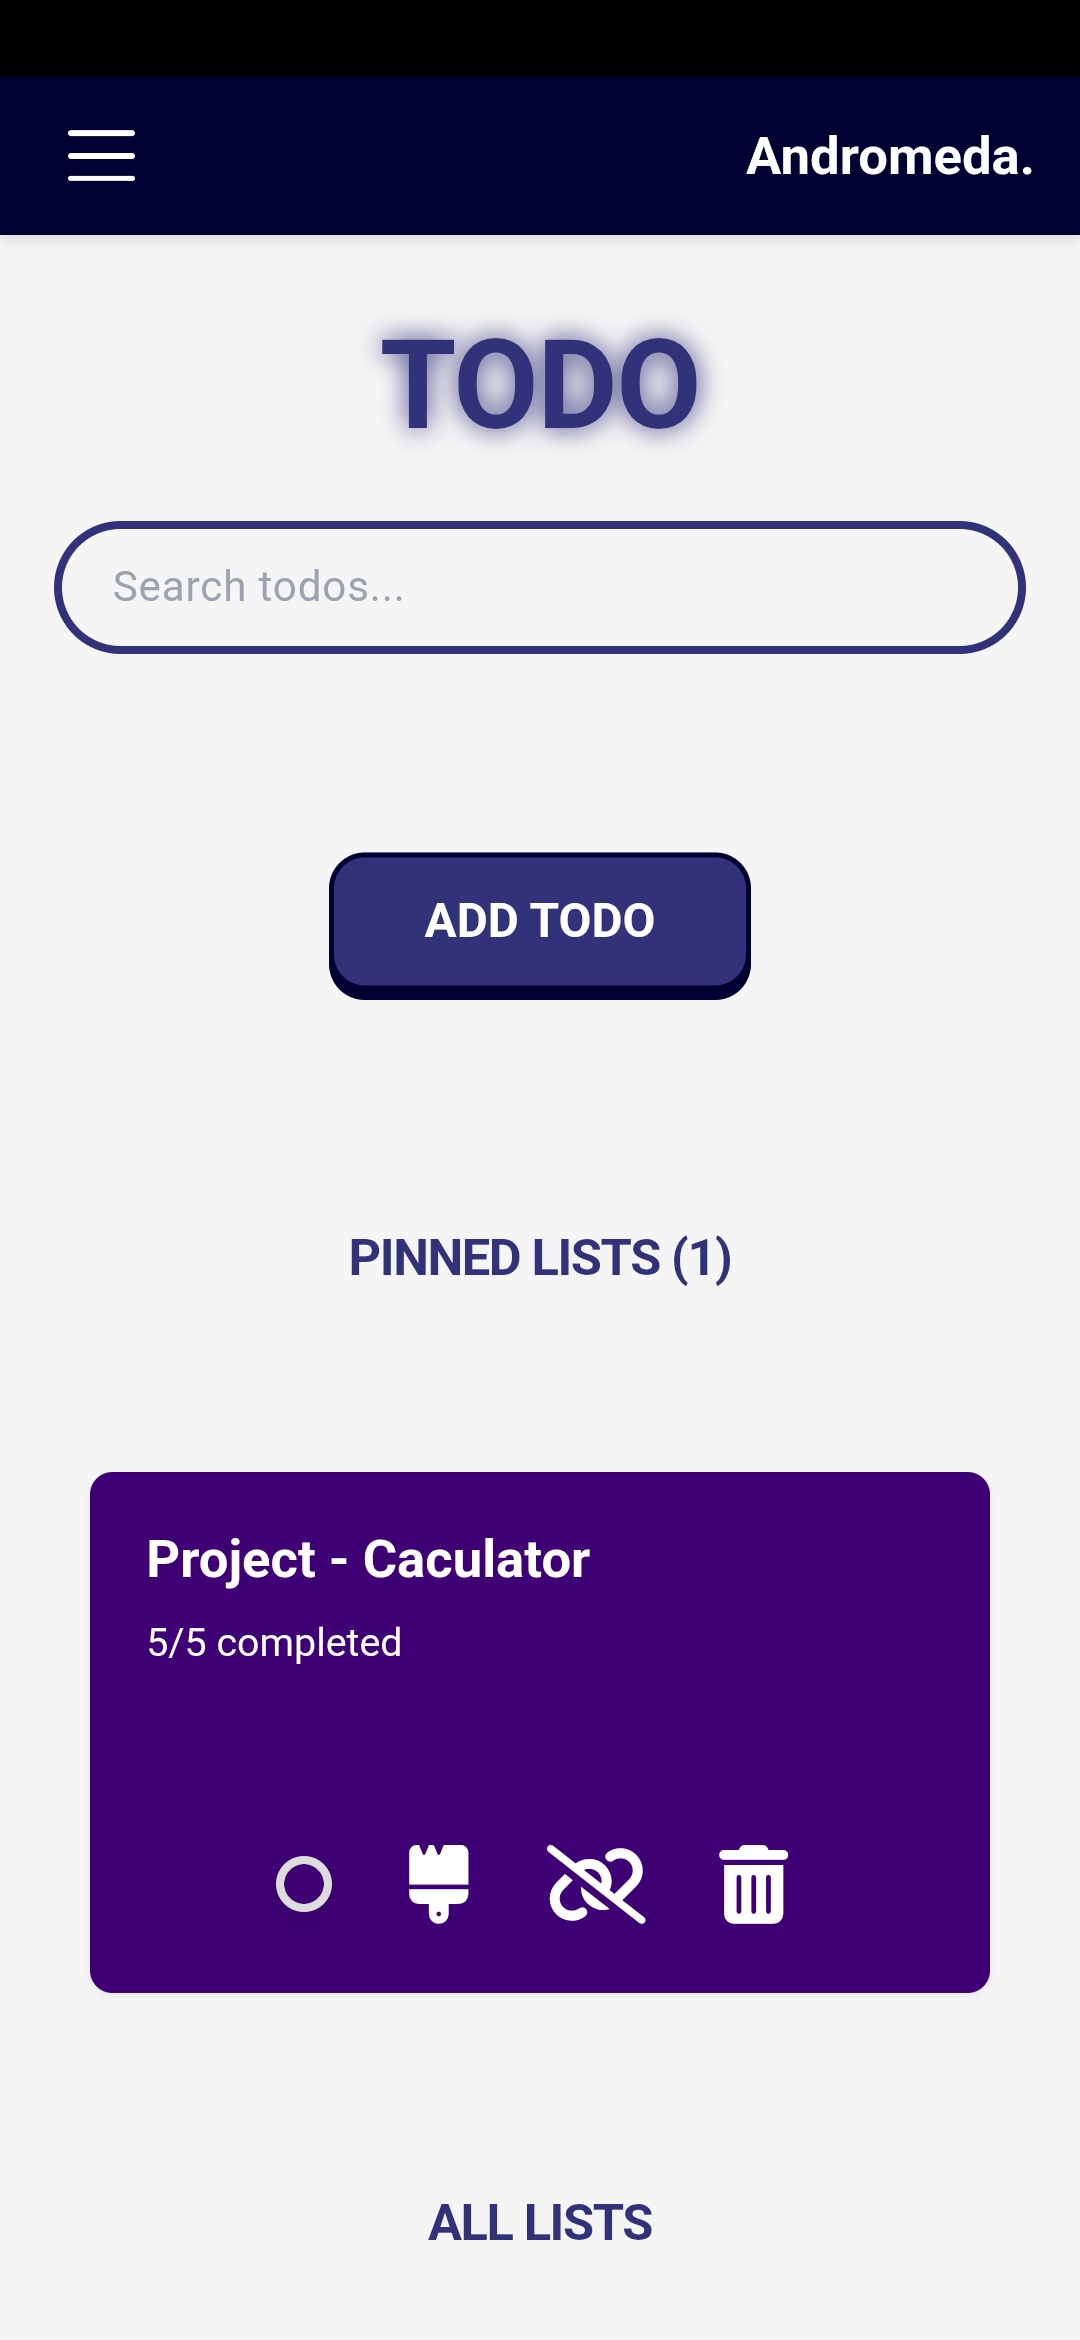
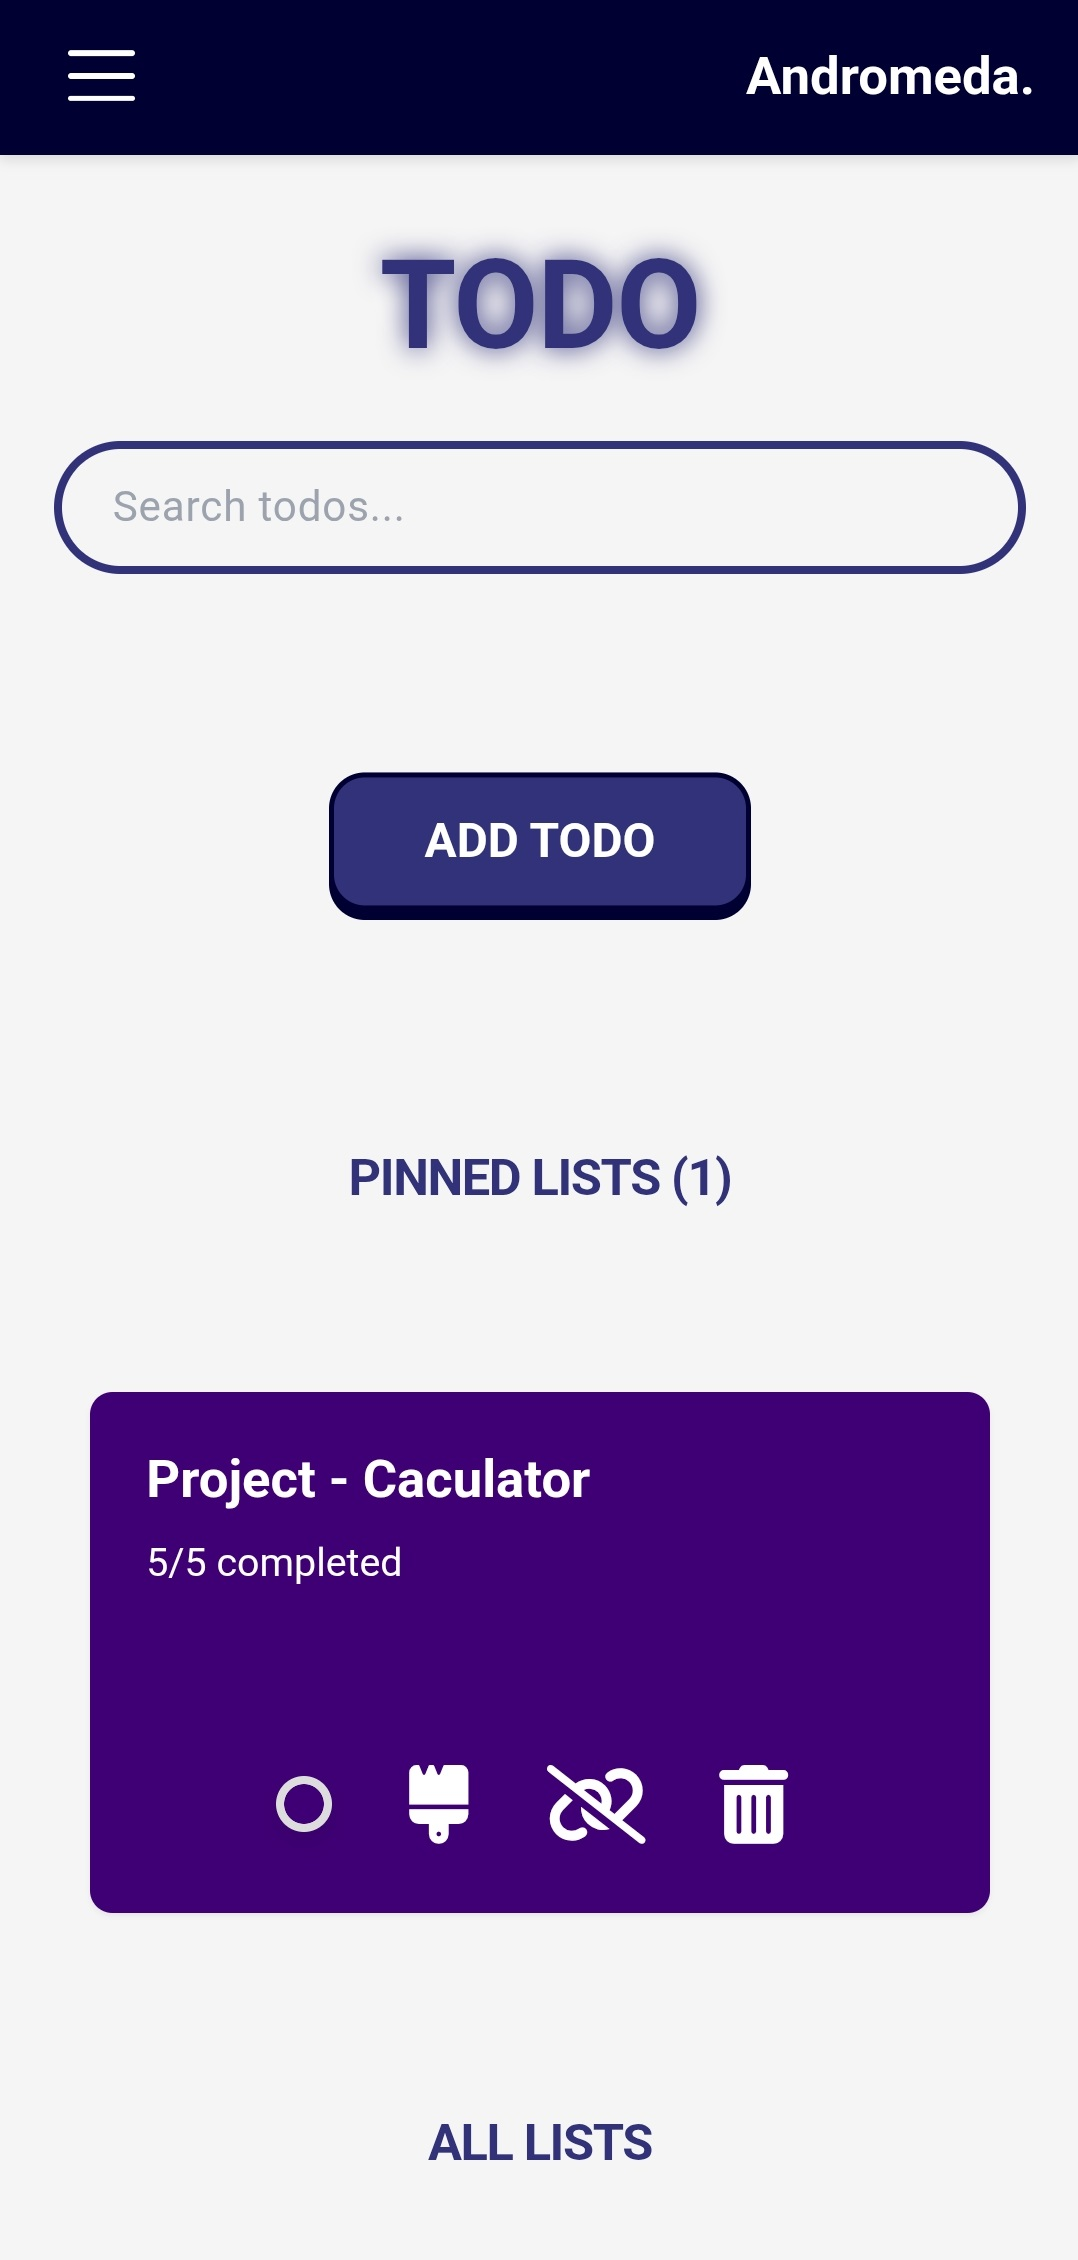
Added new features

diff --git a/src/index.css b/src/index.css
@@ -486,15 +486,32 @@ html {
   align-items: center;
   justify-content: center;
   margin-bottom: 20px;
+  gap: 20px;
 }
 
-.andromeda-screenshot-todo {
+.andromeda-screenshot-img {
   width: 20%;
-  aspect-ratio: 9 / 19.5; /* approx mobile screenshot ratio */
-  background-image: url("/andromeda-todo.jpg");
-  background-size: contain; /* IMPORTANT */
+  height: auto;
+  display: block;
+}
+
+.andromeda-screenshot-notes {
+  width: 20%;
+  aspect-ratio: 9 / 19.5;
+  background-image: url("/andromeda-notes-one.jpg");
+  background-size: contain;
   background-repeat: no-repeat;
   background-position: center;
+}
+
+.andromeda-screenshot-notes-open {
+  width: 20%;
+  aspect-ratio: 9 / 19.5;
+  background-image: url("/andromeda-notes-two.jpg");
+  background-size: contain;
+  background-repeat: no-repeat;
+  background-position: center;
+  background-color: white;
 }
 
 .andromeda-description p {
@@ -569,8 +586,12 @@ html {
     padding: 20px;
   }
 
-  .andromeda-screenshot-todo {
-    width: 60%;
+  .andromeda-screenshot-notes {
+    width: 35%;
+  }
+
+  .andromeda-screenshot-notes-open {
+    width: 35%;
   }
 
   .andromeda-description p {

diff --git a/src/Andromeda.jsx b/src/Andromeda.jsx
@@ -32,7 +32,8 @@ function Andromeda() {
         </div>
 
         <div className="andromeda-screenshot-wrapper">
-          <div className="andromeda-screenshot-todo"></div>
+          <div className="andromeda-screenshot-notes"></div>
+          <div className="andromeda-screenshot-notes-open"></div>
         </div>
       </div>
     </>
